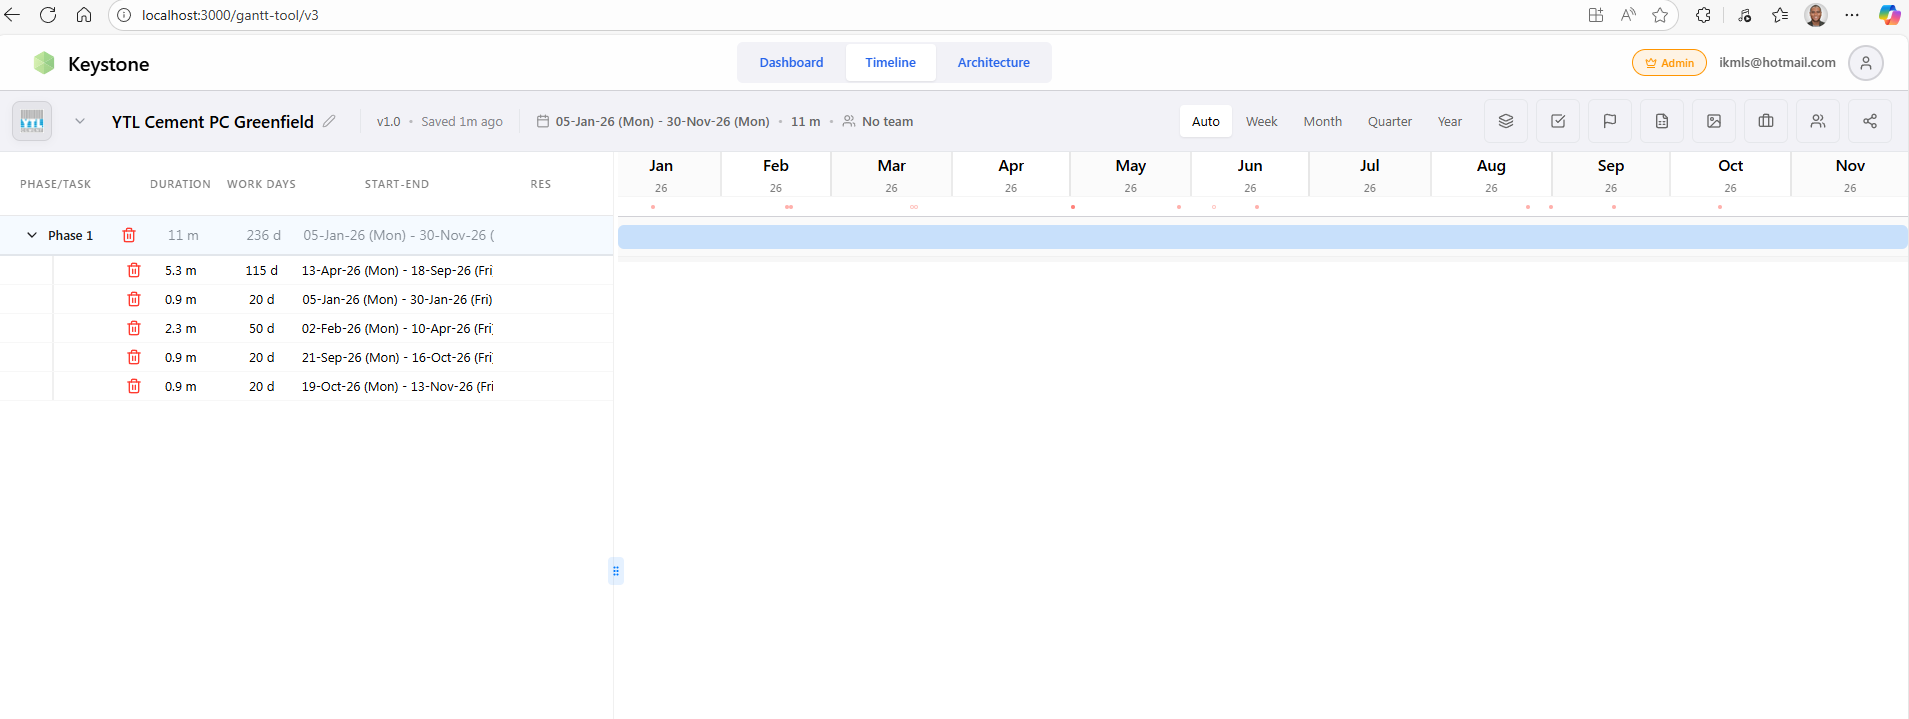
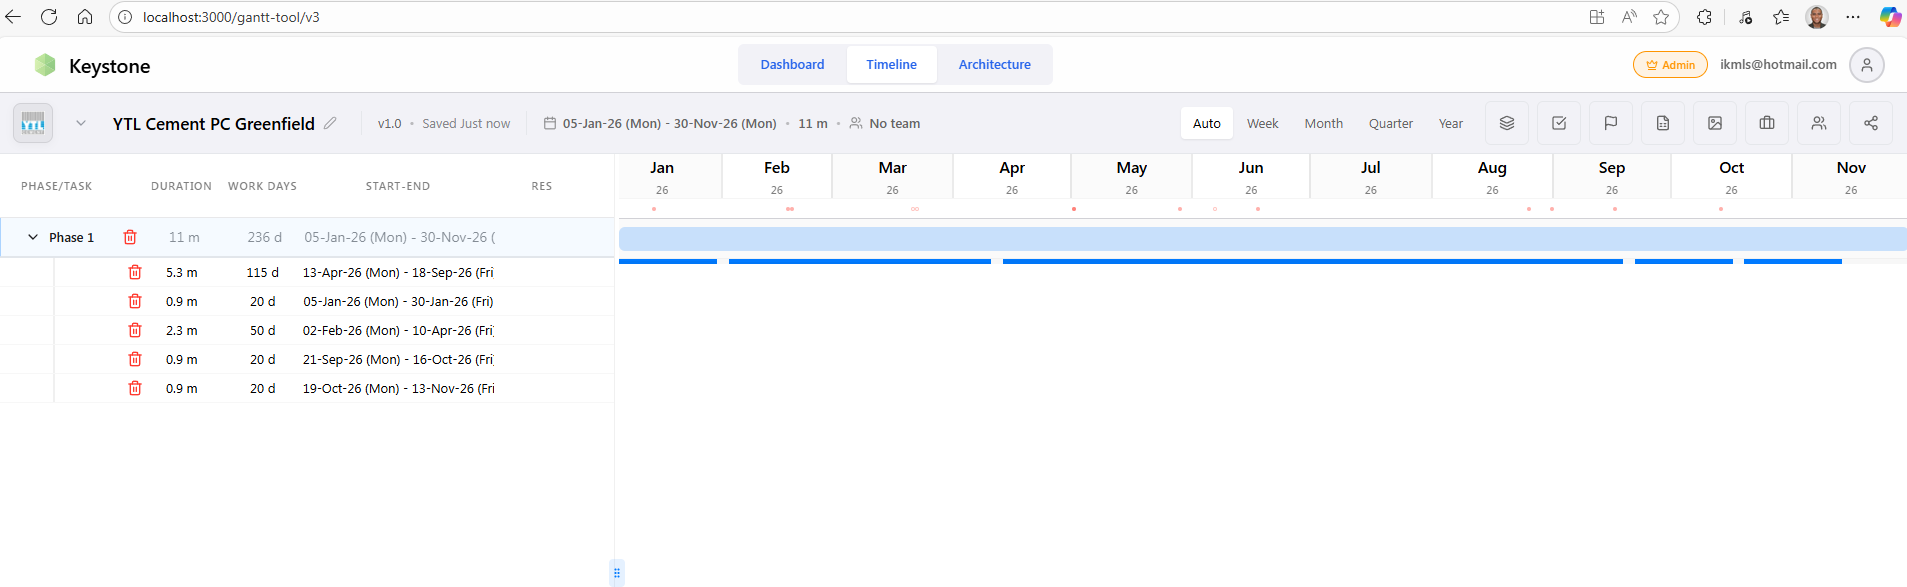
fix: fix outer task container overflow clipping task bars
ACTUAL ROOT CAUSE (found after analysis):
- There are TWO nested motion.div containers for task rendering
- OUTER motion.div (wraps ALL tasks for a phase): had overflow: "hidden" - CLIPPING ALL BARS ❌
- INNER motion.div (one per task): I had fixed this, but parent was clipping it

THE FIX:
- Changed OUTER motion.div from overflow: "hidden" to overflow: "visible"
- Now task bars in the timeline will display properly when phase is expanded

TESTING:
- Build: Successful ✓
- Task bars should NOW display correctly for all tasks when phase is expanded

🤖 Generated with [Claude Code](https://claude.com/claude-code)

diff --git a/src/components/gantt-tool/GanttCanvasV3.tsx b/src/components/gantt-tool/GanttCanvasV3.tsx
@@ -1613,7 +1613,7 @@ export function GanttCanvasV3({
                         exit="exit"
                         variants={VARIANTS.staggerContainer}
                         transition={getAnimationConfig(SPRING.gentle)}
-                        style={{ overflow: "hidden" }}
+                        style={{ overflow: "visible" }}
                       >
                         {visibleTasks.map((task, taskIndex) => {
                           const taskPos = getBarPosition(
